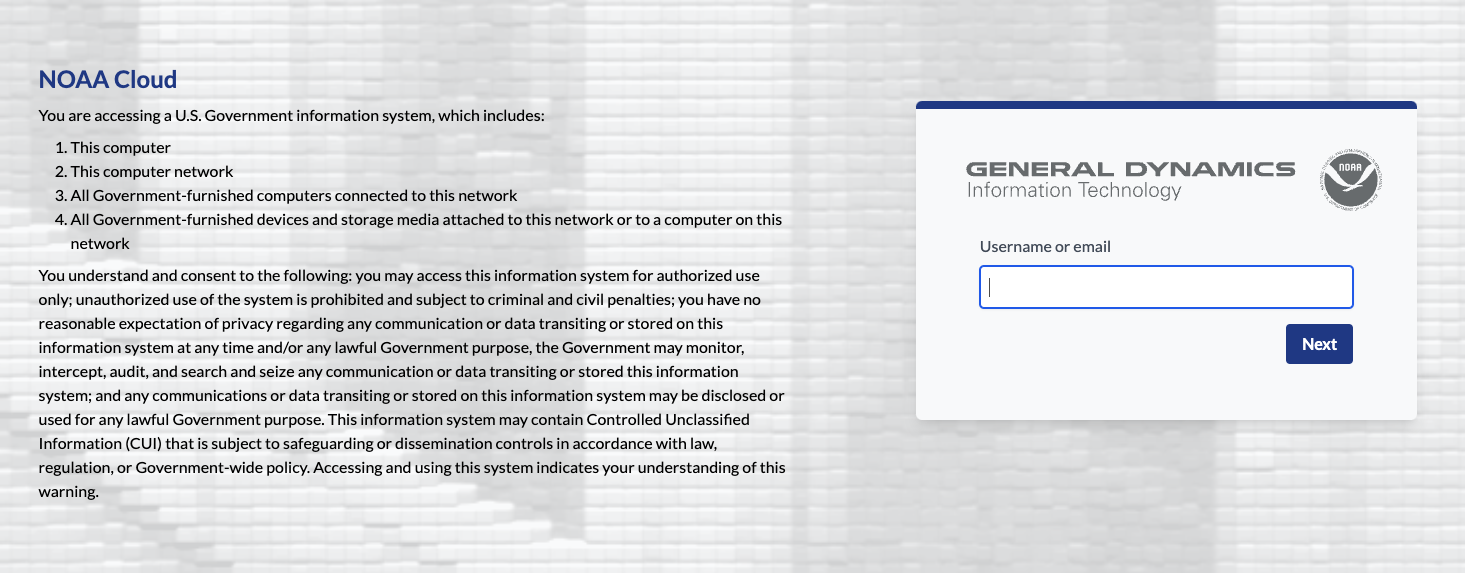
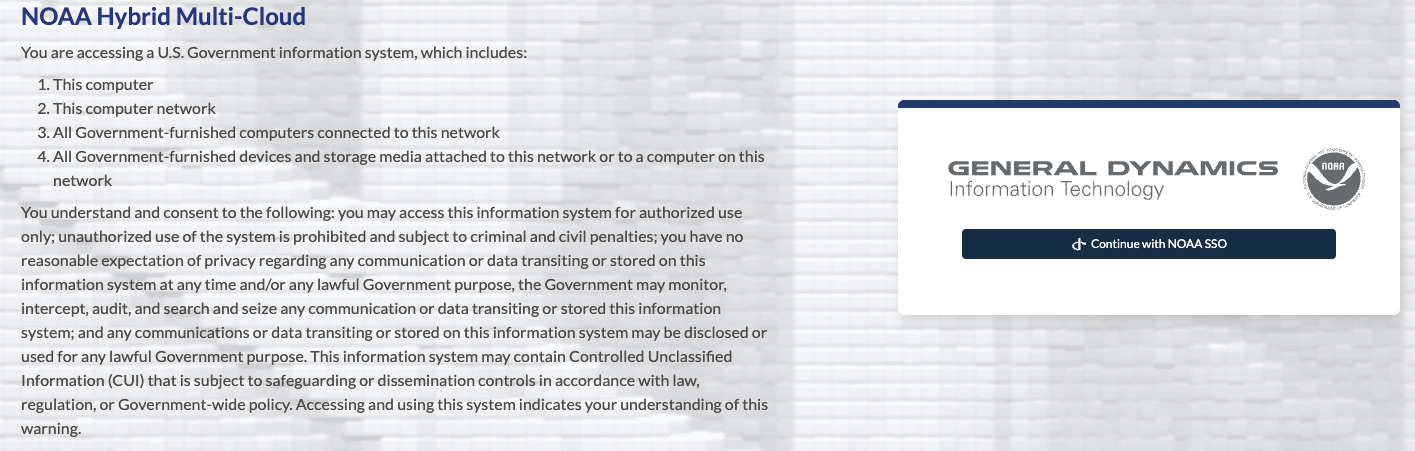
SSO updates.

diff --git a/source/systems/cloud_user_guide.rst b/source/systems/cloud_user_guide.rst
@@ -37,8 +37,8 @@ This diagram illustrates the typical process for using Cloud resources.
       .. figure:: /images/NOAAcloud.png
         :scale: 50%
 
-      Your username is your RDHPCS NOAA username.
-      Your password is your NOAA password, with YubiKey MFA.
+      Click on the button to continue to the NOAA SSO Portal.  Authenticate as appropriate.
+
       When you are logged in, click **Compute**.
 
       .. figure:: /images/cgateway.png
@@ -119,9 +119,9 @@ Parallel Works
   of features and functions is available.
 * In addition, there is an archive of Parallel Works `Training Sessions
   <https://sites.google.com/d/1QJ-MHpl1y0IEtzQUnIbjF2hUmMNQUMAo/p/1G8V0Mua9Dy7oUJ_wI36NAd3kMuMcHyGM/edit>`_.
-* To use the ACTIVATE platform, you must have a NOAA user account and password,
-  and a working YubiKey token.
-  and a working YubiKey token.
+* To use the ACTIVATE platform, you must have a NOAA user account and a
+  NOAA issued YubiKey registered for RDHPCS access.
+
 * You can use Parallel Works to access Cloud clusters (assuming you have a
   project allocation on the Cloud platform) or on-prem systems. See
   :ref:`project_request` if you need access to a Cloud project.
@@ -130,11 +130,7 @@ Using ACTIVATE
 --------------
 
 Users access the ACTIVATE platform through the Parallel Works NOAA Portal,
-using the YubiKey authentication method.  On the landing page, enter your
-NOAA user name, and your PIN and SecurID OTP.
-using the YubiKey authentication method.  On the landing page, enter your
-NOAA user name, and your PIN and SecurID OTP.
-
+authenticating through the NOAA SSO portal.
 
 
 Add a workflow to my account
